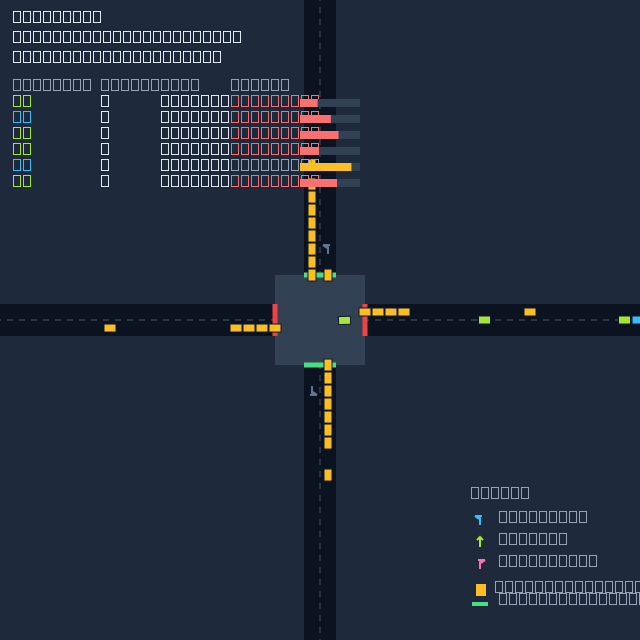
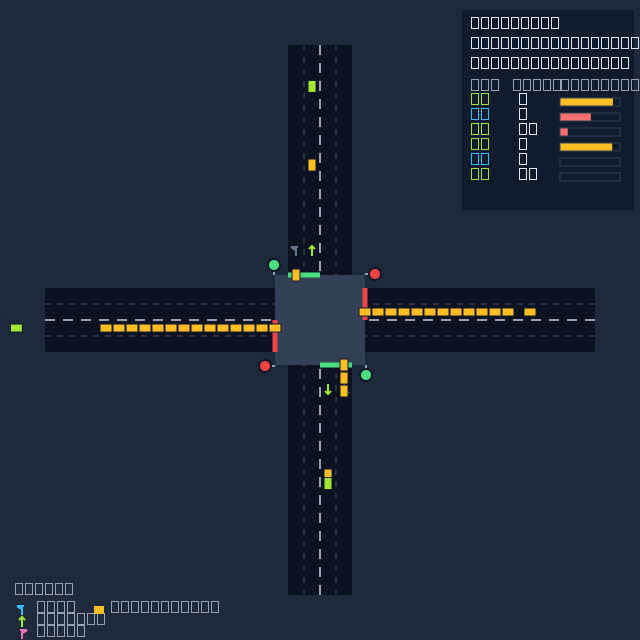
Two-way roads, per-direction lights, cars keep correct side through junction; move HUD off-road

diff --git a/src/ui/canvasRender.ts b/src/ui/canvasRender.ts
@@ -1,5 +1,5 @@
 import type { Junction, Phase, SignalPlan } from '../model/types'
-import { LANE_PX, type JunctionGeom } from './canvasGeometry'
+import { LANE_PX, ROAD_LEN, type JunctionGeom } from './canvasGeometry'
 import type { CarPos, CarSim } from './carSim'
 
 const TURN_COLORS: Record<string, string> = {
@@ -13,6 +13,7 @@ const GREEN = '#4ade80'
 const GRAY = '#64748b'
 const ASPHALT = '#0b1220'
 const MARKING = '#475569'
+const CENTER_LINE = '#94a3b8'
 
 export function drawJunction(
   ctx: CanvasRenderingContext2D,
@@ -29,14 +30,13 @@ export function drawJunction(
   ctx.fillStyle = '#1e293b'
   ctx.fillRect(0, 0, 640, 640)
 
-  // roads: one wide band per approach, sized to its lane count
+  // two-way roads: full width covers incoming + outgoing lanes
   junction.approaches.forEach((app, ai) => {
     const lane = geom.lanes[ai]
     const half = lane.width / 2
-    const far = 400
     const corners = [
-      { x: lane.stop.x + lane.lateral.x * half + lane.inbound.x * far, y: lane.stop.y + lane.lateral.y * half + lane.inbound.y * far },
-      { x: lane.stop.x - lane.lateral.x * half + lane.inbound.x * far, y: lane.stop.y - lane.lateral.y * half + lane.inbound.y * far },
+      { x: lane.stop.x + lane.lateral.x * half + lane.inbound.x * ROAD_LEN, y: lane.stop.y + lane.lateral.y * half + lane.inbound.y * ROAD_LEN },
+      { x: lane.stop.x - lane.lateral.x * half + lane.inbound.x * ROAD_LEN, y: lane.stop.y - lane.lateral.y * half + lane.inbound.y * ROAD_LEN },
       { x: lane.stop.x - lane.lateral.x * half - lane.inbound.x * 22, y: lane.stop.y - lane.lateral.y * half - lane.inbound.y * 22 },
       { x: lane.stop.x + lane.lateral.x * half - lane.inbound.x * 22, y: lane.stop.y + lane.lateral.y * half - lane.inbound.y * 22 },
     ]
@@ -47,15 +47,29 @@ export function drawJunction(
     ctx.closePath()
     ctx.fill()
 
-    // lane divider dashes
+    // center line separating incoming and outgoing halves
+    ctx.strokeStyle = CENTER_LINE
+    ctx.lineWidth = 2
+    ctx.setLineDash([10, 8])
+    ctx.beginPath()
+    ctx.moveTo(lane.stop.x + lane.inbound.x * ROAD_LEN, lane.stop.y + lane.inbound.y * ROAD_LEN)
+    ctx.lineTo(lane.stop.x - lane.inbound.x * 22, lane.stop.y - lane.inbound.y * 22)
+    ctx.stroke()
+    ctx.setLineDash([])
+
+    // dashed lane dividers within each half
     ctx.strokeStyle = MARKING
     ctx.lineWidth = 1
     ctx.setLineDash([6, 6])
     for (let l = 1; l < app.lanes; l++) {
-      const off = l * LANE_PX - half
+      const off = l * LANE_PX
       ctx.beginPath()
-      ctx.moveTo(lane.stop.x + lane.lateral.x * off + lane.inbound.x * far, lane.stop.y + lane.lateral.y * off + lane.inbound.y * far)
-      ctx.lineTo(lane.stop.x + lane.lateral.x * off, lane.stop.y + lane.lateral.y * off)
+      ctx.moveTo(lane.stop.x + lane.lateral.x * off + lane.inbound.x * ROAD_LEN, lane.stop.y + lane.lateral.y * off + lane.inbound.y * ROAD_LEN)
+      ctx.lineTo(lane.stop.x + lane.lateral.x * off - lane.inbound.x * 22, lane.stop.y + lane.lateral.y * off - lane.inbound.y * 22)
+      ctx.stroke()
+      ctx.beginPath()
+      ctx.moveTo(lane.stop.x - lane.lateral.x * off + lane.inbound.x * ROAD_LEN, lane.stop.y - lane.lateral.y * off + lane.inbound.y * ROAD_LEN)
+      ctx.lineTo(lane.stop.x - lane.lateral.x * off - lane.inbound.x * 22, lane.stop.y - lane.lateral.y * off - lane.inbound.y * 22)
       ctx.stroke()
     }
     ctx.setLineDash([])
@@ -72,25 +86,43 @@ export function drawJunction(
       phase.movements.some((m) => m.approach === ai && m.movement === mi),
     )
 
-    // stop bar across the road = traffic light
-    const half = lane.width / 2
+    // stop bar spans only the incoming half of the road
+    const inW = app.lanes * LANE_PX
     ctx.strokeStyle = green ? GREEN : RED
     ctx.lineWidth = 5
     ctx.beginPath()
-    ctx.moveTo(lane.stop.x - lane.lateral.x * half, lane.stop.y - lane.lateral.y * half)
-    ctx.lineTo(lane.stop.x + lane.lateral.x * half, lane.stop.y + lane.lateral.y * half)
+    ctx.moveTo(lane.stop.x, lane.stop.y)
+    ctx.lineTo(lane.stop.x + lane.lateral.x * inW, lane.stop.y + lane.lateral.y * inW)
     ctx.stroke()
+
+    // traffic light head beside the road, facing incoming traffic:
+    // a post with a red/green lens, placed on the incoming side
+    const lx = lane.stop.x + lane.lateral.x * (inW + 14) + lane.inbound.x * 10
+    const ly = lane.stop.y + lane.lateral.y * (inW + 14) + lane.inbound.y * 10
+    ctx.strokeStyle = '#94a3b8'
+    ctx.lineWidth = 2
+    ctx.beginPath()
+    ctx.moveTo(lx, ly)
+    ctx.lineTo(lx - lane.inbound.x * 10, ly - lane.inbound.y * 10)
+    ctx.stroke()
+    ctx.fillStyle = '#0f172a'
+    ctx.beginPath()
+    ctx.arc(lx, ly, 7, 0, Math.PI * 2)
+    ctx.fill()
+    ctx.fillStyle = green ? GREEN : RED
+    ctx.beginPath()
+    ctx.arc(lx, ly, 5, 0, Math.PI * 2)
+    ctx.fill()
 
     // per-turn arrow painted on each movement's own lane
     app.movements.forEach((m, mi) => {
       const ml = geom.movementLanes.get(`${ai}:${mi}`)
       if (!ml) return
-      const cx = ml.origin.x + lane.inbound.x * 26
-      const cy = ml.origin.y + lane.inbound.y * 26
+      const cx = ml.origin.x + lane.inbound.x * 24
+      const cy = ml.origin.y + lane.inbound.y * 24
       const active = phase.movements.some((x) => x.approach === ai && x.movement === mi)
       drawTurnGlyph(ctx, m.turn, cx, cy, lane.inbound, active ? TURN_COLORS[m.turn] : GRAY)
     })
-
   })
 
   // moving cars
@@ -108,12 +140,15 @@ export function drawJunction(
     ctx.restore()
   })
 
-  // HUD
+  // HUD and stats in a side panel, away from the roads
+  const px = 470
+  ctx.fillStyle = '#0f172acc'
+  ctx.fillRect(px - 8, 10, 172, 200)
   ctx.fillStyle = '#e2e8f0'
-  ctx.font = '14px sans-serif'
-  ctx.fillText(`t = ${t.toFixed(1)}s`, 12, 24)
-  ctx.fillText(`Phase ${activePhase + 1} green left: ${greenLeft.toFixed(0)}s`, 12, 44)
-  ctx.fillText(`Cycle plan: ${plan.greenSec.join('/')}s`, 12, 64)
+  ctx.font = '13px sans-serif'
+  ctx.fillText(`t = ${t.toFixed(1)}s`, px, 30)
+  ctx.fillText(`Phase ${activePhase + 1}, green left ${greenLeft.toFixed(0)}s`, px, 50)
+  ctx.fillText(`Cycle: ${plan.greenSec.join('/')}s`, px, 70)
 
   // live stats per movement
   const stats = carSim.stats()
@@ -124,55 +159,46 @@ export function drawJunction(
     const turn = app.movements[mi].turn[0].toUpperCase()
     return `${heading}${turn}`
   }
-  ctx.font = '12px sans-serif'
+  ctx.font = '11px sans-serif'
   ctx.fillStyle = '#94a3b8'
-  ctx.fillText('Movement', 12, 92)
-  ctx.fillText('Queued', 100, 92)
-  ctx.fillText('Flow', 160, 92)
-  ctx.fillText('Demand', 230, 92)
+  ctx.fillText('Mov', px, 92)
+  ctx.fillText('Queue', px + 42, 92)
+  ctx.fillText('Flow/Demand', px + 90, 92)
   stats.forEach((s, i) => {
-    const y = 108 + i * 16
+    const y = 106 + i * 15
     ctx.fillStyle = TURN_COLORS[s.turn] ?? '#e2e8f0'
-    ctx.fillText(labelOf(s.key), 12, y)
+    ctx.fillText(labelOf(s.key), px, y)
     ctx.fillStyle = '#e2e8f0'
-    ctx.fillText(String(s.queued), 100, y)
-    ctx.fillText(`${Math.round(s.actualVph)} veh/h`, 160, y)
-    ctx.fillStyle = s.actualVph > 0 && s.actualVph < s.demandVph * 0.7 ? '#f87171' : '#94a3b8'
-    ctx.fillText(`${s.demandVph} veh/h`, 230, y)
-    // small bar: actual vs demand
-    const barMax = 60
-    const scale = s.demandVph > 0 ? Math.min(s.actualVph / s.demandVph, 1) : 0
-    ctx.fillStyle = '#334155'
-    ctx.fillRect(300, y - 9, barMax, 8)
-    ctx.fillStyle = scale >= 0.99 ? '#4ade80' : scale >= 0.7 ? '#fbbf24' : '#f87171'
-    ctx.fillRect(300, y - 9, barMax * scale, 8)
+    ctx.fillText(String(s.queued), px + 48, y)
+    const ratio = s.demandVph > 0 ? Math.min(s.actualVph / s.demandVph, 1) : 0
+    ctx.fillStyle = ratio >= 0.99 ? '#4ade80' : ratio >= 0.7 ? '#fbbf24' : '#f87171'
+    ctx.fillRect(px + 90, y - 8, 60 * ratio, 8)
+    ctx.strokeStyle = '#334155'
+    ctx.lineWidth = 1
+    ctx.strokeRect(px + 90, y - 8, 60, 8)
   })
 
-  // legend
-  const lx = 470
-  ctx.font = '12px sans-serif'
+  // legend bottom-left, away from roads
+  const lx2 = 14
+  ctx.font = '11px sans-serif'
   ctx.fillStyle = '#94a3b8'
-  ctx.fillText('Legend', lx, 500)
+  ctx.fillText('Legend', lx2, 596)
   const north = { x: 0, y: -1 }
   const legendGlyphs: [string, string][] = [
-    ['left', 'left turn'],
+    ['left', 'left'],
     ['through', 'through'],
-    ['right', 'right turn'],
+    ['right', 'right'],
   ]
   legendGlyphs.forEach(([turn, label], i) => {
-    const y = 520 + i * 22
-    drawTurnGlyph(ctx, turn, lx + 10, y, north, TURN_COLORS[turn])
+    const y = 610 + i * 12
+    drawTurnGlyph(ctx, turn, lx2 + 8, y, north, TURN_COLORS[turn])
     ctx.fillStyle = '#94a3b8'
-    ctx.fillText(label, lx + 28, y + 4)
+    ctx.fillText(label, lx2 + 22, y + 4)
   })
   ctx.fillStyle = '#fbbf24'
-  ctx.fillRect(lx + 6, 584, 10, 12)
+  ctx.fillRect(lx2 + 80, 606, 10, 8)
   ctx.fillStyle = '#94a3b8'
-  ctx.fillText('queued car (its lane color = moving)', lx + 24, 594)
-  ctx.fillStyle = GREEN
-  ctx.fillRect(lx + 2, 602, 16, 4)
-  ctx.fillStyle = '#94a3b8'
-  ctx.fillText('stop bar = light', lx + 28, 606)
+  ctx.fillText('waiting car', lx2 + 96, 614)
 }
 
 function drawTurnGlyph(
@@ -181,15 +207,14 @@ function drawTurnGlyph(
   x: number,
   y: number,
   inbound: { x: number; y: number },
-  colorOverride?: string,
+  color: string,
 ) {
-  // rotate: glyph drawn assuming traffic flows upward (inbound = (0,-1))
+  // glyph drawn assuming traffic flows upward (inbound = (0,-1))
   const angle = Math.atan2(inbound.y, inbound.x) - Math.atan2(-1, 0)
   ctx.save()
   ctx.translate(x, y)
   ctx.rotate(angle)
-  const color = colorOverride ?? ctx.strokeStyle
-  ctx.strokeStyle = color as string
+  ctx.strokeStyle = color
   ctx.lineWidth = 2
   ctx.beginPath()
   if (turn === 'through') {

diff --git a/src/ui/carSim.ts b/src/ui/carSim.ts
@@ -1,6 +1,6 @@
 import type { Junction } from '../model/types'
-import { movementVector } from '../model/phases'
-import type { JunctionGeom } from './canvasGeometry'
+import { HEADING_VEC, movementVector } from '../model/phases'
+import { LANE_PX, type JunctionGeom } from './canvasGeometry'
 
 export interface CarPos {
   x: number
@@ -55,19 +55,32 @@ export class CarSim {
         const key = `${ai}:${mi}`
         const lane = this.geom.lanes[ai]
         const ml = this.geom.movementLanes.get(key)!
+        const laneIndex = ml.laneIndex
         const exit = movementVector(this.junction, { approach: ai, movement: mi })
-        const exitEdge = {
-          x: this.geom.center.x + exit.x * (this.geom.box / 2),
-          y: this.geom.center.y + exit.y * (this.geom.box / 2),
+        // destination approach: the one whose inbound matches the exit direction
+        const destAi = this.junction.approaches.findIndex((app) => {
+          const v = HEADING_VEC[((app.heading % 360) + 360) % 360]
+          return v.x === exit.x && v.y === exit.y
+        })
+        // exit lane center: mirrored across the road center line (outgoing half)
+        const exitLaneOffset = -(laneIndex + 0.5) * LANE_PX
+        void destAi
+        const exitEdgeStart = {
+          x: this.geom.center.x + exit.x * (this.geom.box / 2) + this.geom.lanes[ai].lateral.x * exitLaneOffset,
+          y: this.geom.center.y + exit.y * (this.geom.box / 2) + this.geom.lanes[ai].lateral.y * exitLaneOffset,
         }
-        // quadratic curve from stop line through the box center to the exit edge
+        // quadratic curve from stop line through the box center to the exit lane start
         const pts: { x: number; y: number }[] = []
+        const ctrl = {
+          x: (ml.origin.x + exitEdgeStart.x) / 2,
+          y: (ml.origin.y + exitEdgeStart.y) / 2,
+        }
         for (let s = 0; s <= 16; s++) {
           const u = s / 16
           const a = 1 - u
           pts.push({
-            x: a * a * ml.origin.x + 2 * a * u * this.geom.center.x + u * u * exitEdge.x,
-            y: a * a * ml.origin.y + 2 * a * u * this.geom.center.y + u * u * exitEdge.y,
+            x: a * a * ml.origin.x + 2 * a * u * ctrl.x + u * u * exitEdgeStart.x,
+            y: a * a * ml.origin.y + 2 * a * u * ctrl.y + u * u * exitEdgeStart.y,
           })
         }
         // straight exit lane away from the junction
@@ -75,8 +88,8 @@ export class CarSim {
         for (let s = 1; s <= steps; s++) {
           const u = s / steps
           pts.push({
-            x: exitEdge.x + exit.x * SPAWN_DIST * u,
-            y: exitEdge.y + exit.y * SPAWN_DIST * u,
+            x: exitEdgeStart.x + exit.x * SPAWN_DIST * u,
+            y: exitEdgeStart.y + exit.y * SPAWN_DIST * u,
           })
         }
         const cum = [0]

diff --git a/src/ui/canvasGeometry.ts b/src/ui/canvasGeometry.ts
@@ -10,12 +10,12 @@ export const HEADING_VEC: Record<number, { x: number; y: number }> = {
 export interface LaneGeom {
   /** point where road meets junction box */
   stop: { x: number; y: number }
-  /** direction from outside toward junction */
+  /** direction from stop line outward, toward waiting cars */
   inbound: { x: number; y: number }
-  /** lateral direction across the road (screen-right of inbound) */
+  /** lateral direction toward the incoming lanes (driver's right) */
   lateral: { x: number; y: number }
   heading: number
-  /** total road width in px */
+  /** full road width in px: lanes in + lanes out */
   width: number
 }
 
@@ -35,6 +35,8 @@ export interface JunctionGeom {
 }
 
 export const LANE_PX = 16
+/** road length from stop line outward */
+export const ROAD_LEN = 230
 
 export function layout(junction: Junction): JunctionGeom {
   const center = { x: 320, y: 320 }
@@ -44,18 +46,20 @@ export function layout(junction: Junction): JunctionGeom {
     return {
       stop: { x: center.x + v.x * (box / 2), y: center.y + v.y * (box / 2) },
       inbound: { x: v.x, y: v.y },
-      lateral: { x: -v.y, y: v.x },
+      // driver travels along -inbound; driver's right side is this lateral
+      lateral: { x: v.y, y: -v.x },
       heading: app.heading,
-      width: app.lanes * LANE_PX,
+      width: app.lanes * LANE_PX * 2,
     }
   })
   const movementLanes = new Map<string, MovementLaneGeom>()
   junction.approaches.forEach((app, ai) => {
     const lane = lanes[ai]
-    const n = app.movements.length
+    const halfW = lane.width / 2
     app.movements.forEach((_, mi) => {
-      const laneIndex = Math.min(Math.floor((mi * app.lanes) / n), app.lanes - 1)
-      const offset = (laneIndex + 0.5) * LANE_PX - lane.width / 2
+      const laneIndex = Math.min(Math.floor((mi * app.lanes) / app.movements.length), app.lanes - 1)
+      // incoming half spans lateral offsets [0, halfW]; lane centers inside it
+      const offset = (laneIndex + 0.5) * LANE_PX
       movementLanes.set(`${ai}:${mi}`, {
         origin: {
           x: lane.stop.x + lane.lateral.x * offset,
@@ -65,6 +69,7 @@ export function layout(junction: Junction): JunctionGeom {
         laneWidth: LANE_PX,
       })
     })
+    void halfW
   })
   return { center, box, lanes, movementLanes }
 }

diff --git a/src/model/phases.ts b/src/model/phases.ts
@@ -1,6 +1,6 @@
 import type { Junction, MovementRef, Phase, SignalPlan } from './types'
 
-const HEADING_VECTORS: Record<number, { x: number; y: number }> = {
+export const HEADING_VEC: Record<number, { x: number; y: number }> = {
   0: { x: 0, y: -1 },
   90: { x: 1, y: 0 },
   180: { x: 0, y: 1 },
@@ -10,7 +10,7 @@ const HEADING_VECTORS: Record<number, { x: number; y: number }> = {
 /** Normalized travel vector for a movement leaving the junction. */
 export function movementVector(junction: Junction, ref: MovementRef): { x: number; y: number } {
   const app = junction.approaches[ref.approach]
-  const incoming = HEADING_VECTORS[((app.heading % 360) + 360) % 360] ?? { x: 0, y: 0 }
+  const incoming = HEADING_VEC[((app.heading % 360) + 360) % 360] ?? { x: 0, y: 0 }
   const inv = { x: -incoming.x, y: -incoming.y }
   const turn = app.movements[ref.movement].turn
   if (turn === 'through') return inv
